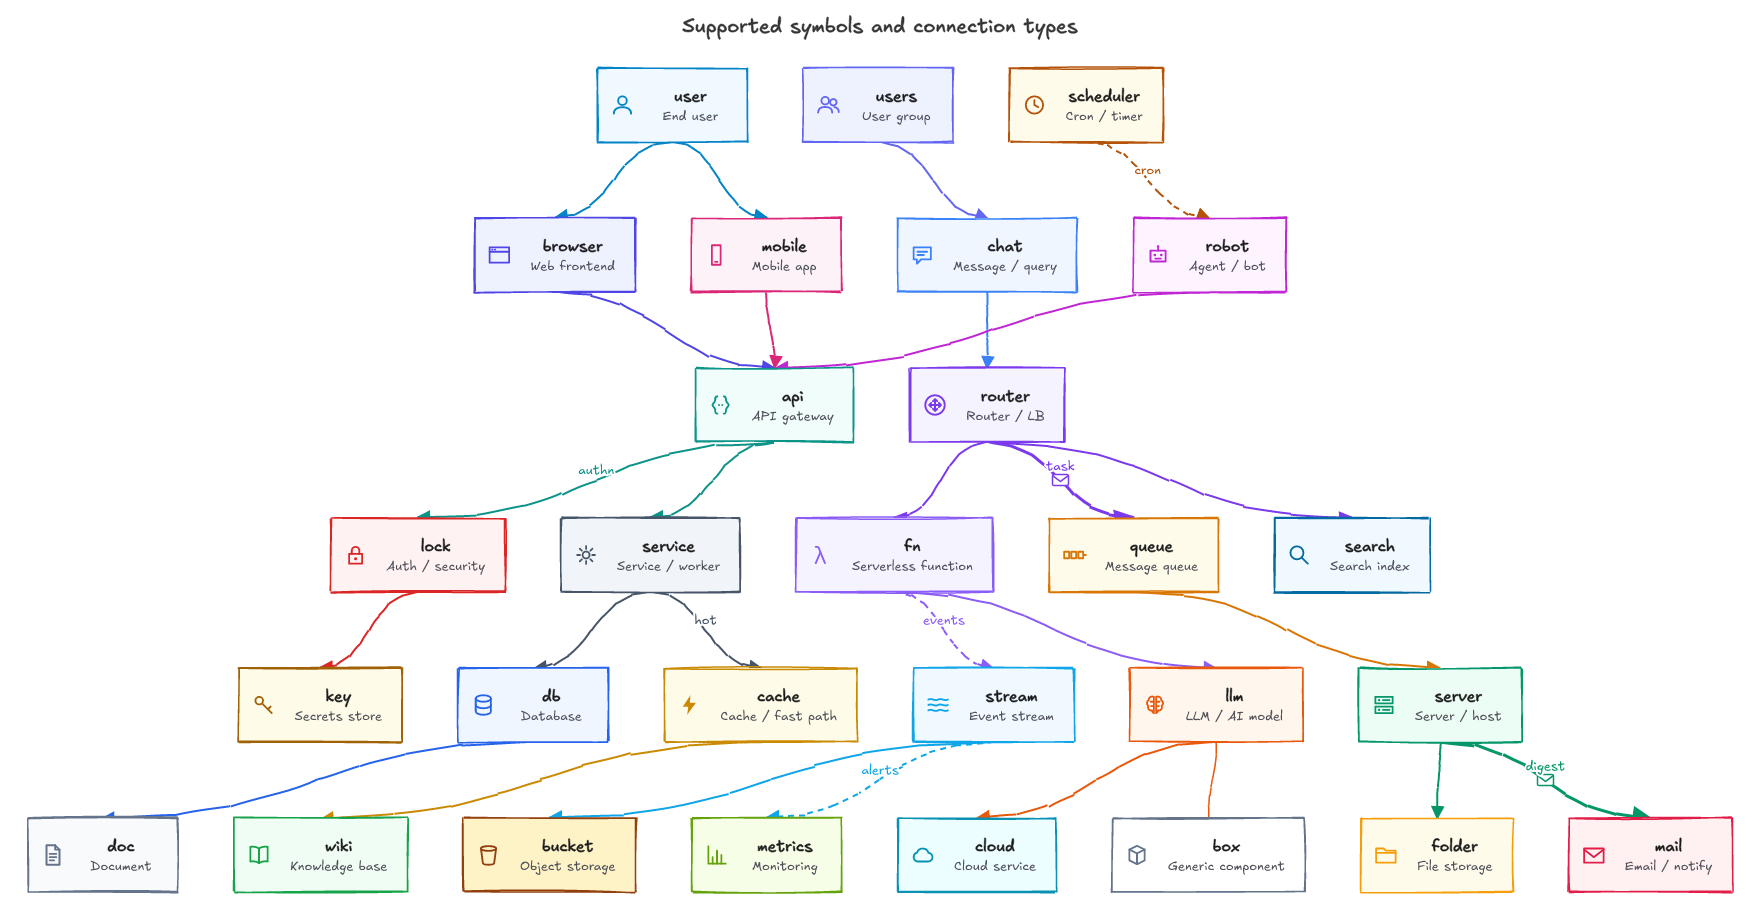
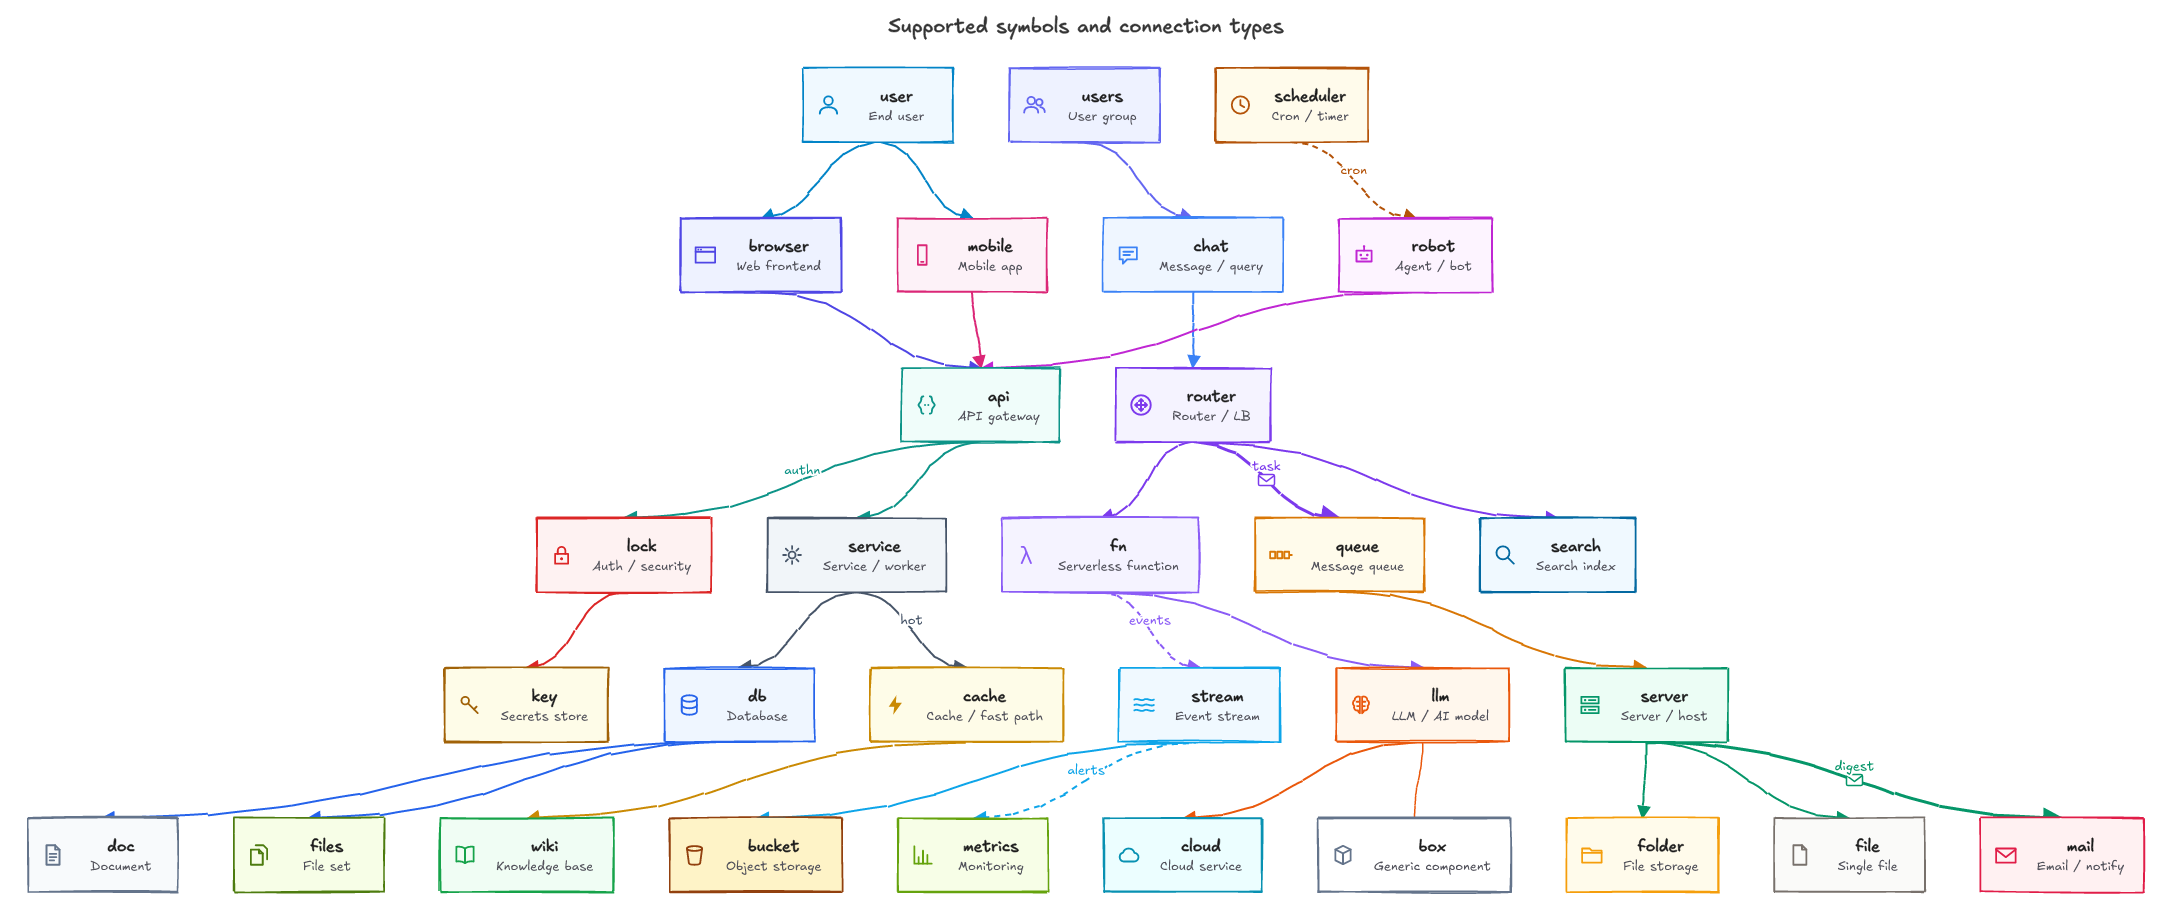
feat+release: v0.6.0 — file and files symbols for system_chart
Two new system_chart symbols (30 total): `file` (single blank page with
folded corner; `doc` keeps the text lines) and `files` (two overlapping
pages), each with its own accent colour. Showcase PNGs regenerated,
README symbol table updated, workspace version bumped to 0.6.0.

Claude-Session: https://claude.ai/code/session_01P3VpEeSAqJbNyGs6DJ5Qb6

Changed region(s): [[0.0, 0.3348, 0.9994, 0.9739], [0.2811, 0.0, 0.7183, 0.3652]]

diff --git a/sebastian/src/system_chart/mod.rs b/sebastian/src/system_chart/mod.rs
@@ -53,7 +53,7 @@ const MIN_NODE_W: f64 = 150.0;
 const EDGE_LABEL_FS: f64 = 13.0;
 
 /// Every symbol kind: name, accent (stroke/icon) colour, box fill tint.
-const SYMBOLS: [(&str, &str, &str); 28] = [
+const SYMBOLS: [(&str, &str, &str); 30] = [
     ("user", "#0284C7", "#F0F9FF"),
     ("users", "#6366F1", "#EEF2FF"),
     ("chat", "#3B82F6", "#EFF6FF"),
@@ -81,6 +81,8 @@ const SYMBOLS: [(&str, &str, &str); 28] = [
     ("key", "#A16207", "#FEFCE8"),
     ("robot", "#C026D3", "#FDF4FF"),
     ("search", "#0369A1", "#F0F9FF"),
+    ("file", "#78716C", "#FAFAF9"),
+    ("files", "#4D7C0F", "#F7FEE7"),
     ("box", "#64748B", "#FFFFFF"),
 ];
 
@@ -783,6 +785,17 @@ fn draw_icon(parent: &Element, kind: &str, x: f64, y: f64, accent: &str) {
             set_attr(&ant, "cy", "4");
             set_attr(&ant, "r", "1.1");
             set_attr(&ant, "class", "system-chart-icon-fill");
+        }
+        "file" => {
+            // A single blank page with a folded corner (`doc` adds text lines).
+            stroke_path(&g, "M6,3 H14 L18,7 V21 H6 Z");
+            stroke_path(&g, "M14,3 V7 H18");
+        }
+        "files" => {
+            // Two overlapping pages: a back page peeking out behind the front.
+            stroke_path(&g, "M9,3 H16 L19.5,6.5 V16");
+            stroke_path(&g, "M4.5,7 H12 L15.5,10.5 V21 H4.5 Z");
+            stroke_path(&g, "M12,7 V10.5 H15.5");
         }
         "search" => {
             stroke_path(&g, "M10,4 a6,6 0 1 1 -0.01,0 Z");

diff --git a/CHANGELOG.md b/CHANGELOG.md
@@ -6,11 +6,14 @@ project adheres to [Semantic Versioning](https://semver.org/).
 
 ## [Unreleased]
 
+## [0.6.0] — 2026-07-16
+
 ### Added
 - **`system_chart` diagram type (sebastian extension).** Boxes with typical
   system-component icons connected by labelled arrows, expressing a system
-  architecture. 28 symbols (`user`, `queue`, `db`, `wiki`, `router`, `llm`,
-  `api`, `stream`, …), each with its own accent colour and icon, and four
+  architecture. 30 symbols (`user`, `queue`, `db`, `wiki`, `router`, `llm`,
+  `api`, `stream`, `file`, `files`, …), each with its own accent colour and
+  icon, and four
   edge operators encoding the connection type in the line style: `-->`
   sync call, `..>` event trigger (dashed), `==>` message via queue/bus
   (thick, envelope at midpoint), `---` undirected association (no

diff --git a/README.md b/README.md
@@ -364,6 +364,7 @@ rendering of all of them:
 | `service` | service / worker | `search` | search index |
 | `lock` | auth / security boundary | `box` | generic component |
 | `server` | server / host | `cache` | cache / fast path |
+| `file` | single file | `files` | set of files |
 
 `box` is also the fallback for unknown symbol names.
 